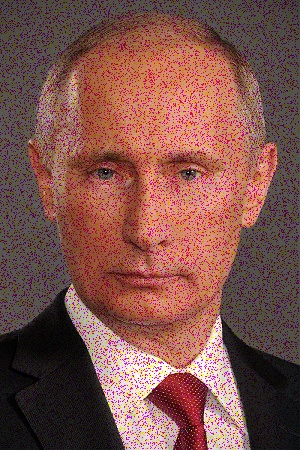
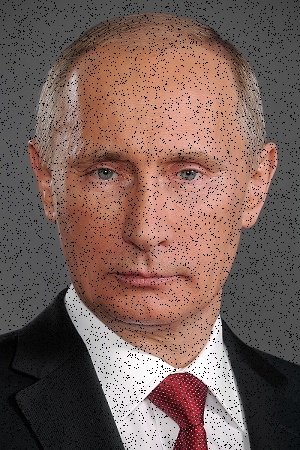
говна кусок

diff --git a/main.py b/main.py
@@ -9,34 +9,30 @@ def addNoise(image, noise_percentage):
     out = np.copy(image)
     nose = int(np.ceil(noise_percentage * vals / 100))
     # Salt mode
-    num_salt = int(nose / 2)
-    num_pepper = int(nose / 2)
-    coords = [np.random.randint(0, i - 1, int(num_salt))
-              for i in image.shape]
-    out[coords] = 1
-    # Pepper mode
-    coords = [np.random.randint(0, i - 1, int(num_pepper))
-              for i in image.shape]
-    out[coords] = 0
+    num_salt = int(nose)
+
+    for i in range(0, int(num_salt)):
+        out[np.random.randint(0, image.shape[0]), np.random.randint(0, image.shape[1])] = [0, 0, 0]
+
     return out
 
 
-def getVec_b(img, imgNose):
+def getVec_b(img, imgNose, D):
     b = np.zeros(16)
     i = 0
-    for n in range(-1, 3):
-        for m in range(-1, 3):
+    for n in D:
+        for m in D:
             b[i] = B(img, imgNose, -n, -m)
             i += 1
     return b
 
 
-def matrixA(imgNose):
+def matrixA(imgNose, D):
     matrixA = []
-    for n in range(-1, 3):
-        for m in range(-1, 3):
-            for k in range(-1, 3):
-                for l in range(-1, 3):
+    for n in D:
+        for m in D:
+            for k in D:
+                for l in D:
                     matrixA.append(B(imgNose, imgNose, n - k, m - l))
 
     matrixA = np.array(matrixA).reshape(16, 16)
@@ -51,20 +47,18 @@ def matrixMask(A, b):
 def B(A, B, k, l):
     rows = A.shape[0]
     cols = A.shape[1]
-    rowsA = range(k, rows)
-    colsA = range(l, cols)
-    rowsB = range(0, rows - k)
-    colsB = range(0, cols - l)
-    if k < 0:
-        k = abs(k)
-        rowsA = range(0, rows - k)
-        rowsB = range(k, rows)
-    if l < 0:
-        l = abs(l)
-        colsA = range(0, cols - l)
-        colsB = range(l, cols)
 
-    return np.sum(np.sum(A[rowsA][colsA] * B[rowsB][colsB])) / ((rows - 1) * (cols - 1))
+    if k < 0 and l < 0:
+        return np.sum(np.sum(A[0:rows - abs(k), 0:cols - abs(l)] * B[abs(k):rows, abs(l):cols])) / (
+                (rows - 1) * (cols - 1))
+
+    elif k < 0 and l >= 0:
+        return np.sum(np.sum(A[0:rows - abs(k), l:cols] * B[abs(k):rows, 0:cols - l])) / ((rows - 1) * (cols - 1))
+
+    elif k >= 0 and l < 0:
+        return np.sum(np.sum(A[k:rows, 0:cols - abs(l)] * B[0:rows - k, abs(l):cols])) / ((rows - 1) * (cols - 1))
+
+    return np.sum(np.sum(A[k:rows, l:cols] * B[0:rows - k, 0:cols - l])) / ((rows - 1) * (cols - 1))
 
 
 def Convolution(image, kernel, D):
@@ -87,64 +81,57 @@ def Convolution(image, kernel, D):
         img2[:, i] = img2[:, centerwidthM]
 
     for i in range(widthM - centerwidthM):
-        img2[:, width +  i] = img2[:, width]
+        img2[:, width + i] = img2[:, width]
 
     new_image = np.zeros((height + heightM - 1, width + widthM - 1), np.uint8)
 
-    for i in range(centerHeightM, height+1):
-        for j in range(centerwidthM, width+1):
-            new_image[i][j] = np.sum( img2[i - centerHeightM: i + (heightM - centerHeightM - 1) + 1,
-                j - centerwidthM: j + (widthM - centerwidthM - 1) + 1] * kernel)
+    for i in range(centerHeightM, height + 1):
+        for j in range(centerwidthM, width + 1):
+            new_image[i][j] = np.sum(img2[i - centerHeightM: i + (heightM - centerHeightM - 1) + 1,
+                                     j - centerwidthM: j + (widthM - centerwidthM - 1) + 1] * kernel)
 
     return new_image[centerHeightM:height + centerHeightM, centerwidthM:width + centerwidthM]
 
 
 if __name__ == '__main__':
-    img = cv2.imread("putin.jpg")
+    img = cv2.imread("putin.png")
     imgNose = cv2.imread("putinNose.jpg")
-    # D = [-1, 0, 1, 2]
-    D = [-2, -1, 0, 1]
-
     b, g, r = cv2.split(img)
     bNose, gNose, rNose = cv2.split(imgNose)
-    cv2.imshow("bNose", bNose)
 
+    D = [-1, 0, 1, 2]
 
-    # imgNose = addNoise(img,13)
-    #
-    # cv2.imwrite("putinNose.jpg",imgNose)
+    cv2.imshow("imgNose", imgNose)
 
-    bvec = getVec_b(b, bNose)
-    A = matrixA(bNose)
+    bvec = getVec_b(b, bNose, D)
+
+    A = matrixA(bNose, D)
     Mask = matrixMask(A, bvec)
     Mask = np.array(Mask).reshape(4, 4)
     print(Mask)
-
     resultB = Convolution(bNose, Mask, D)
+    cv2.imshow("resultB", resultB)
 
-    bvec = getVec_b(g, gNose)
-    A = matrixA(gNose)
-    Mask = matrixMask(A, bvec)
-    Mask = np.array(Mask).reshape(4, 4)
-    print(Mask)
+    bvec2 = getVec_b(g, gNose, D)
+    A2 = matrixA(gNose, D)
+    Mask2 = matrixMask(A2, bvec2)
+    Mask2 = np.array(Mask2).reshape(4, 4)
+    print(Mask2)
 
-    resultG = Convolution(gNose, Mask, D)
+    resultG = Convolution(gNose, Mask2, D)
+    cv2.imshow("resultG", resultG)
 
-    bvec = getVec_b(r, rNose)
-    A = matrixA(rNose)
-    Mask = matrixMask(A, bvec)
-    Mask = np.array(Mask).reshape(4, 4)
-    print(Mask)
-
+    bvec3 = getVec_b(r, rNose, D)
+    A3 = matrixA(rNose, D)
+    Mask3 = matrixMask(A3, bvec3)
+    Mask3 = np.array(Mask3).reshape(4, 4)
+    print(Mask3)
     resultR = Convolution(rNose, Mask, D)
+    cv2.imshow("resultR", resultR)
+
     m = cv2.merge((resultB, resultG, resultR))
     print(m.shape)
 
-    cv2.imshow("Approval Method", m)
+    cv2.imshow("REs", m)
 
     cv2.waitKey(0)
-    img2 = cv2.imread("tramp.jpg")
-    b2, g2, r2 = cv2.split(img)
-
-    img3 = cv2.imread("car.jpg")
-    b3, g3, r3 = cv2.split(img)
